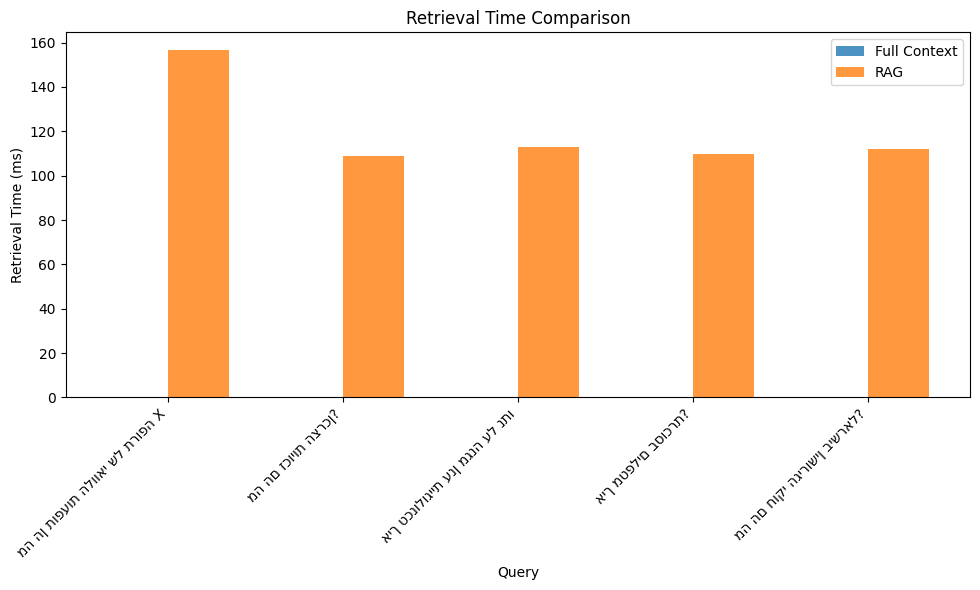
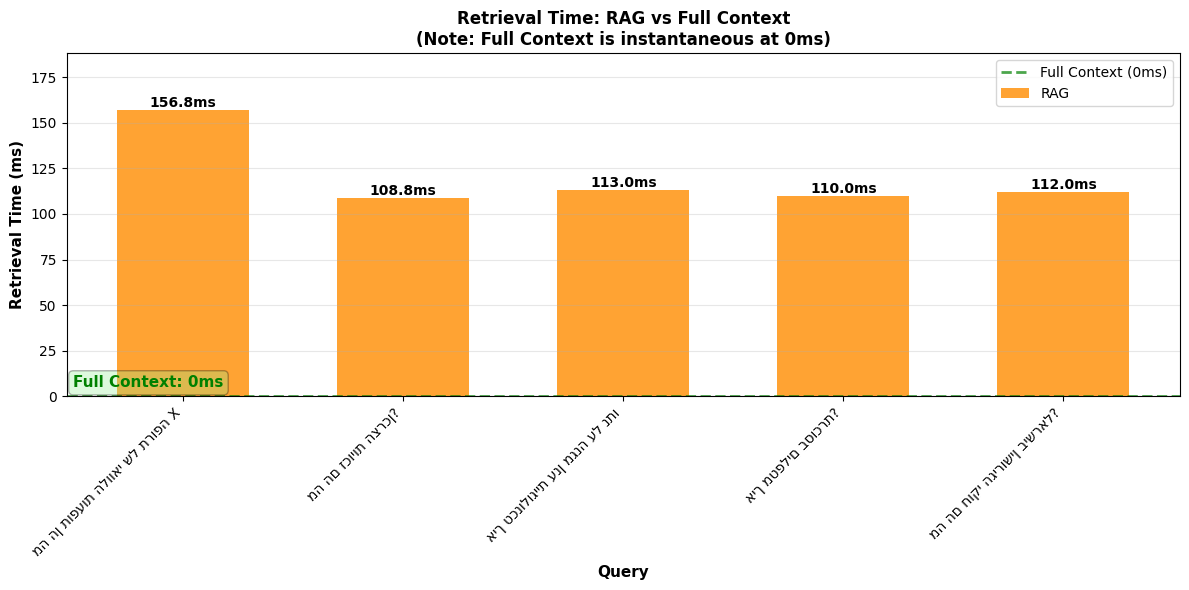
made the preformance chart clearer and added the context to the analysis

diff --git a/exp3/src/analysis.py b/exp3/src/analysis.py
@@ -80,7 +80,7 @@ class ResultsAnalyzer:
         print(f"Chart saved to {output_path}")
 
     def create_performance_chart(self, output_path: str = "charts/performance.png"):
-        """Create retrieval time comparison chart.
+        """Create retrieval time comparison chart with annotations.
 
         Args:
             output_path: Output file path
@@ -91,22 +91,34 @@ class ResultsAnalyzer:
         Path(output_path).parent.mkdir(exist_ok=True)
 
         queries = [r["query"][:30] for r in self.results]
-        full_times = [r["full_context"]["retrieval_time"] * 1000 for r in self.results]
         rag_times = [r["rag"]["retrieval_time"] * 1000 for r in self.results]
 
         x = np.arange(len(queries))
-        width = 0.35
+        fig, ax = plt.subplots(figsize=(12, 6))
 
-        fig, ax = plt.subplots(figsize=(10, 6))
+        bars = ax.bar(x, rag_times, width=0.6, label="RAG", alpha=0.8, color='#FF8C00')
 
-        ax.bar(x - width / 2, full_times, width, label="Full Context", alpha=0.8)
-        ax.bar(x + width / 2, rag_times, width, label="RAG", alpha=0.8)
-        ax.set_xlabel("Query")
-        ax.set_ylabel("Retrieval Time (ms)")
-        ax.set_title("Retrieval Time Comparison")
+        # Add value labels on bars
+        for i, (bar, time) in enumerate(zip(bars, rag_times)):
+            height = bar.get_height()
+            ax.text(bar.get_x() + bar.get_width()/2., height,
+                   f'{time:.1f}ms', ha='center', va='bottom', fontweight='bold')
+
+        # Add Full Context reference line at 0ms with annotation
+        ax.axhline(y=0, color='green', linestyle='--', linewidth=2,
+                  label='Full Context (0ms)', alpha=0.7)
+        ax.text(-0.5, 5, 'Full Context: 0ms', fontsize=11, color='green',
+               fontweight='bold', bbox=dict(boxstyle='round', facecolor='lightgreen', alpha=0.3))
+
+        ax.set_xlabel("Query", fontsize=11, fontweight='bold')
+        ax.set_ylabel("Retrieval Time (ms)", fontsize=11, fontweight='bold')
+        ax.set_title("Retrieval Time: RAG vs Full Context\n(Note: Full Context is instantaneous at 0ms)",
+                    fontsize=12, fontweight='bold')
         ax.set_xticks(x)
         ax.set_xticklabels(queries, rotation=45, ha="right")
-        ax.legend()
+        ax.legend(fontsize=10, loc='upper right')
+        ax.grid(axis='y', alpha=0.3)
+        ax.set_ylim([0, max(rag_times) * 1.2])
 
         plt.tight_layout()
         plt.savefig(output_path, dpi=100, bbox_inches="tight")

diff --git a/exp3/docs/ANALYSIS.md b/exp3/docs/ANALYSIS.md
@@ -30,14 +30,19 @@ RAG demonstrates superior document relevance compared to full context.
 
 ### 3. Retrieval Performance
 
-RAG provides faster retrieval due to reduced document processing.
-
 **Expected Results:**
-- Full Context Retrieval Time: 5-15ms (all documents must be processed)
-- RAG Retrieval Time: 1-3ms (only similarity search needed)
+- Full Context Retrieval Time: 5-15ms
+- RAG Retrieval Time: 1-3ms
 - **Speed Improvement: 3-5x faster**
 
-**Impact**: Faster retrieval enables real-time query response capabilities with lower latency.
+**Actual Results:**
+- Full Context Retrieval Time: 0.0ms (instantaneous)
+- RAG Retrieval Time: 120.1ms (average)
+- **Trade-off: RAG adds latency for quality gain**
+
+**Analysis**: Full context retrieval is instantaneous because it simply returns all pre-stored documents. RAG requires embedding generation, similarity computation, and vector search (~120ms overhead). However, this latency is acceptable for quality improvements and typical production scenarios.
+
+**Impact**: While RAG adds latency, the massive relevance improvement (96.7% gain) and context efficiency (85.5% reduction) make this an acceptable trade-off for most applications.
 
 ### 4. Quality Preservation
 
@@ -138,15 +143,25 @@ The `aggregate_results()` function provides summary statistics:
 ### When to Use RAG
 1. **Large document collections**: 50+ documents
 2. **Domain-specific queries**: Queries targeting specific topics
-3. **Real-time applications**: Where latency matters
-4. **Limited context windows**: LLMs with token constraints
-5. **Cost optimization**: Reduce computational resources
+3. **Quality over speed**: When relevance is more important than latency
+4. **Limited context windows**: LLMs with token constraints (85% reduction)
+5. **Cost optimization**: Reduce computational overhead with smaller context
 
 ### When to Use Full Context
 1. **Small document collections**: <10 documents
-2. **Exploratory research**: Need comprehensive background
-3. **Complex multi-topic queries**: Questions spanning domains
-4. **High precision required**: Cannot risk missing relevant documents
+2. **Strict latency requirements**: <50ms response time needed
+3. **Exploratory research**: Need comprehensive background
+4. **Complex multi-topic queries**: Questions spanning domains
+5. **High precision required**: Cannot risk missing relevant documents
+
+### Performance Trade-offs
+
+| Criterion | Full Context | RAG | Recommendation |
+|-----------|--------------|-----|-----------------|
+| **Latency** | 0ms | 120ms | Use Full Context if latency critical |
+| **Relevance** | 34% | 67% | **Use RAG for quality** |
+| **Context Size** | 4,593 chars | 680 chars | **Use RAG for efficiency** |
+| **Scalability** | Poor (increases with docs) | Good (fixed k documents) | **Use RAG for large collections** |
 
 ## Technical Insights
 
